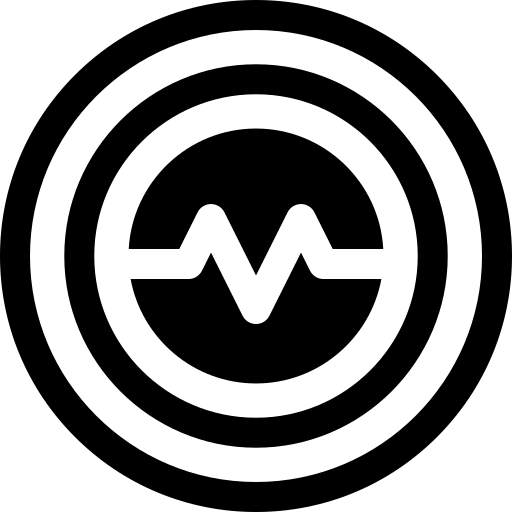
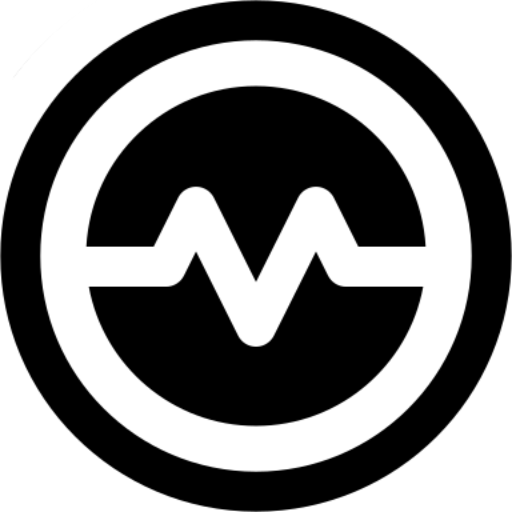
지진 마커 이미지 변경, 진도에 따라 마커 이미지 달라지는 기능 추가

diff --git a/src/main/resources/static/JS/kakaoMap.js b/src/main/resources/static/JS/kakaoMap.js
@@ -12,7 +12,6 @@ const clustererOptions = {
 	gridSize: 50,
 	minLevel: 15,
 };
-// ----------------------------------------------------------
 
 // 지도 컨트롤러 생성
 // 일반 지도와 스카이뷰로 지도 타입을 전환할 수 있는 지도타입 컨트롤을 생성합니다
@@ -26,19 +25,17 @@ map.addControl(mapTypeControl, kakao.maps.ControlPosition.TOPRIGHT);
 const zoomControl = new kakao.maps.ZoomControl();
 map.addControl(zoomControl, kakao.maps.ControlPosition.RIGHT);
 
+// ---------------------------------------------------------------------------------
+
 // 방사능 마커
 const marker_radioNormal = "../img/marker_radioactivity_normal.png"; // 방사능 수치 정상
 const marker_radioYellow = "../img/marker_radioactivity_yellow.png"; // 방사능 수치 경고
 const marker_radioRed = "../img/marker_radioactivity_red.png"; // 방사능 수치 위험
-// 지진 마커
-const marker_earthquake = "../img/marker_earthquake.png"; // 진도 1~3
-const marker_earthquake_yellow = "../img/marker_earthquake_yellow.png"; // 진도 4~6
-const marker_earthquake_red = "../img/marker_earthquake_red.png"; // 진도 7 이상
+let marker_earthquake = "";
 
-// 생성된 마커 저장 배열
+// 생성된 마커 저장 배열(테스트 중)
 const markerArray = [];
 
-// year로 검색하는 영역입니다.
 const eqYearPush = async () => {
 	// year로 인식할 input 구현해야 합니다.
 	// const year = document.querySelector("#yeartest").value;
@@ -75,40 +72,30 @@ const eqYearPush = async () => {
 			eqTime = eqTime.substr(0, 5);
 		}
 
+		// 지진 마커 이미지(진도에 따라 마커 이미지 변경)
+		if (eqScale >= 3) {
+			marker_earthquake = "../img/marker_earthquake_red.png"; // 진도 7 이상
+		} else if (eqScale >= 2) {
+			marker_earthquake = "../img/marker_earthquake_yellow.png"; // 진도 4~6
+		} else {
+			marker_earthquake = "../img/marker_earthquake.png"; // 진도 1~3
+		}
+		console.log(`eqScale ${eqScale}, marker_earthquake ${marker_earthquake}`);
+
 		// 마커 이미지의 이미지 크기
 		const imageSize = new kakao.maps.Size(15, 15);
 		// 마커이미지의 옵션입니다. 마커의 좌표와 일치시킬 이미지 안에서의 좌표를 설정합니다.
 		const imageOption = { offset: new kakao.maps.Point(10, 35) };
-		const markerImage = new kakao.maps.MarkerImage(
+		let markerImage = new kakao.maps.MarkerImage(
 			marker_earthquake,
 			imageSize,
 			imageOption
 		);
-		// 마커 이미지
-		// if (eqScale >= 7) {
-		// 	const markerImage = new kakao.maps.MarkerImage(
-		// 		marker_earthquake_red,
-		// 		imageSize,
-		// 		imageOption
-		// 	);
-		// } else if (eqScale >= 4 && eqScale <= 6) {
-		// 	const markerImage = new kakao.maps.MarkerImage(
-		// 		marker_earthquake_yellow,
-		// 		imageSize,
-		// 		imageOption
-		// 	);
-		// } else {
-		// 	const markerImage = new kakao.maps.MarkerImage(
-		// 		marker_earthquake,
-		// 		imageSize,
-		// 		imageOption
-		// 	);
-		// }
 
 		// 마커를 생성
 		// 지도를 표시할 div와  지도 옵션으로  지도를 생성합니다
-		var markerPosition = new kakao.maps.LatLng(eqLat, eqLon);
-		var marker = new kakao.maps.Marker({
+		let markerPosition = new kakao.maps.LatLng(eqLat, eqLon);
+		let marker = new kakao.maps.Marker({
 			image: markerImage, // 마커 이미지
 			position: markerPosition,
 		});
@@ -120,12 +107,18 @@ const eqYearPush = async () => {
 			'    <div class="info">' +
 			'        <div class="body">' +
 			'            <div class="desc">' +
-			`                <div class="ellipsis"><span class="eqDetail">발생 일시:</span> ${eqYear}년 ${eqMonth}월 ${eqDay}일, ${eqAntemeri} ${eqTime}` +
-			`                <div class="ellipsis"><span class="eqDetail">위도:</span> ${eqLat} | <span class="eqDetail">경도:</span> ${eqLon}</div>` +
-			`                <div class="ellipsis"><span class="eqDetail">발생지:</span> ${eqLocation}</div>` +
-			`                <div class="ellipsis"><span class="eqDetail">규모:</span> ${eqScale}, <span class="eqDetail">진도:</span> ${eqMagnitude}, <span class="eqDetail">진앙 깊이:</span> ${eqDeep}km</div>` +
-			`                <div class="ellipsis"></div>` +
-			`                <div class="ellipsis"></div>` +
+			`                <div class="ellipsis">` +
+			`							<span class="eqDetail">발생 일시: </span>${eqYear}년 ${eqMonth}월 ${eqDay}일, ${eqAntemeri} ${eqTime}` +
+			`						</div>` +
+			`		           <div class="ellipsis">` +
+			`							<span class="eqDetail">위도: </span>${eqLat} | <span class="eqDetail">경도: </span>${eqLon}` +
+			`						</div>` +
+			`                <div class="ellipsis">` +
+			`							<span class="eqDetail">발생지: </span>${eqLocation}` +
+			`						</div>` +
+			`                <div class="ellipsis">` +
+			`							<span class="eqDetail">규모: </span>${eqScale}, <span class="eqDetail">진도:</span> ${eqMagnitude}, <span class="eqDetail">진앙 깊이:</span> ${eqDeep}km	` +
+			`						</div>` +
 			"            </div>" +
 			"        </div>" +
 			"    </div>" +
